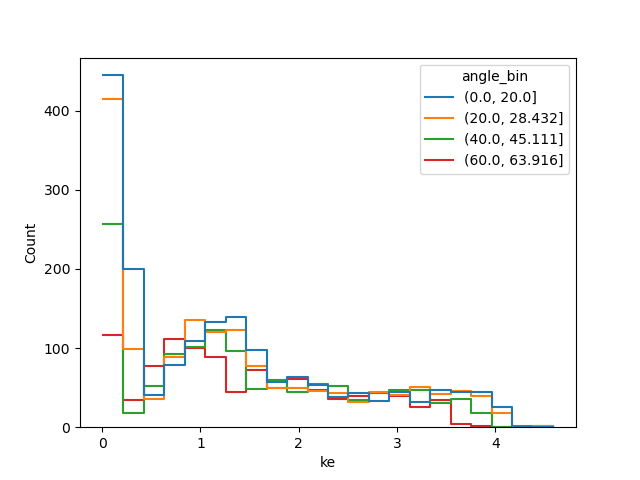
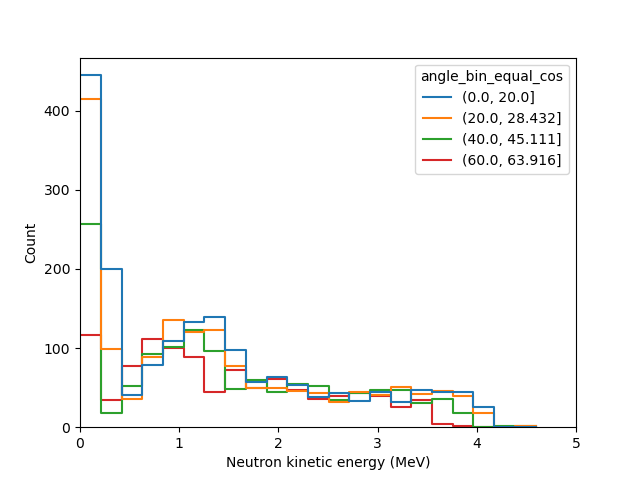
Add another plotting style.
For neutron kinetic energy binned by angle.

diff --git a/analysis-scripts/p-on-be/plot_neutron_energy_binned_by_angle.py b/analysis-scripts/p-on-be/plot_neutron_energy_binned_by_angle.py
@@ -1,7 +1,10 @@
 #!/usr/bin/env python
 
-# my own module
+# redirect output to avoid x11 issues
+import matplotlib
+matplotlib.use('Agg')
 
+# my own module
 import data_utilities
 import neutron_energy_binned_by_angle
 
@@ -22,6 +25,8 @@ if __name__ == '__main__':
     # command line arguments
     parser = argparse.ArgumentParser()
     parser.add_argument('-i', '--input_file', type=str, default=os.path.join(data_utilities.get_git_root(__file__), 'data/p_on_be/pandas/neutron_only_angle_bin.csv'))
+    parser.add_argument('--equal_angle_bin', action='store_true')
+    parser.add_argument('--separate_plots', action='store_true')
     args = parser.parse_args()
     infpn = args.input_file
     
@@ -29,18 +34,43 @@ if __name__ == '__main__':
     df_neutron = pd.read_csv(infpn)
 
     # angles at which data is binned
-    angles = neutron_energy_binned_by_angle.angles
-    half_idx = int(len(angles)/2)
-    angles1 = angles[:half_idx]
-    angles2 = angles[half_idx:]
+    if args.equal_angle_bin:
+        angles = neutron_energy_binned_by_angle.angles_equal_angle_bin
+    else:
+        angles = neutron_energy_binned_by_angle.angles
+    
+    # select the cut variable
+    cut_var = 'angle_bin_equal_cos'
+    if args.equal_angle_bin: cut_var = 'angle_bin_equal_angle'
+    # make plots with multiple angles in one figure
+    if not args.separate_plots:
+        half_idx = int(len(angles)/2)
+        angles1 = angles[:half_idx]
+        angles2 = angles[half_idx:]
 
-    for i, angle_set in enumerate([angles1, angles2]):
-        # add variable to select events of interest and select
-        df_neutron['in_angle'] = df_neutron['angle_bin'].apply(low_in_angles, args=(angle_set,))
+        for i, angle_set in enumerate([angles1, angles2]):
+            # add variable to select events of interest and select
+            df_neutron['in_angle'] = df_neutron[cut_var].apply(low_in_angles, args=(angle_set,))
+            df_angle_set = df_neutron[df_neutron.in_angle]
+
+            algle_order = sorted(list(df_angle_set[cut_var].dropna().unique()))
+            # make kinetic energy plot binned by angle
+            sns_plot = sns.histplot(x='ke', data=df_angle_set, hue=cut_var, element='step', fill=False, hue_order=algle_order)
+            sns_plot.set(xlabel='Neutron kinetic energy (MeV)')
+            sns_plot.set(xlim=(0, 5))
+            sns_plot.figure.savefig('plots/neutron_kinetic_energy_angle_bin_{}.png'.format(i))
+            sns_plot.figure.clf()
+    else: # one angle per figure
+        df_neutron['in_angle'] = df_neutron[cut_var].apply(low_in_angles, args=(angles,))
         df_angle_set = df_neutron[df_neutron.in_angle]
 
-        algle_order = sorted(list(df_angle_set.angle_bin.dropna().unique()))
-        # make kinetic energy plot binned by angle
-        sns_plot = sns.histplot(x='ke', data=df_angle_set, hue='angle_bin', element='step', fill=False, hue_order=algle_order)
-        sns_plot.figure.savefig('plots/neutron_kinetic_energy_angle_bin_{}.png'.format(i))
-        sns_plot.figure.clf()
+        angle_ranges = df_neutron[cut_var].unique()
+        for angle_range in angle_ranges:
+            df_angle_range = df_angle_set[df_angle_set[cut_var] == angle_range]
+            if df_angle_range.empty: continue
+            sns_plot = sns.histplot(x='ke', data=df_angle_range, hue=cut_var, element='step', fill=False)
+            sns_plot.set(xlabel='Neutron kinetic energy (MeV)')
+            sns_plot.set(xlim=(0, 5))
+            sns_plot.figure.savefig('plots/neutron_kinetic_energy_angle_bin_{}.png'.format(angle_range))
+            sns_plot.figure.clf()
+

diff --git a/analysis-scripts/p-on-be/neutron_energy_binned_by_angle.py b/analysis-scripts/p-on-be/neutron_energy_binned_by_angle.py
@@ -10,6 +10,7 @@ import pandas as pd
 
 # angles at which data is binned
 angles = [0., 20., 40., 60., 80., 90., 100., 120.]
+angles_equal_angle_bin = [0., 20., 40., 60., 80., 90., 100., 120., 140., 160., 180.]
 
 def get_angle_edges(angles):
     '''
@@ -31,6 +32,7 @@ if __name__ == '__main__':
     # command line arguments
     parser = argparse.ArgumentParser()
     parser.add_argument('-i', '--input_file', type=str, default=os.path.join(data_utilities.get_git_root(__file__), 'data/p_on_be/pandas/neutron_preview.csv'))
+    parser.add_argument('--equal_angle_bin', action='store_true')
     args = parser.parse_args()
     infpn = args.input_file
 
@@ -39,8 +41,19 @@ if __name__ == '__main__':
     df_neutron = df_neutron[df_neutron.particle_name == 'neutron']
     df_neutron['theta_p_degree'] = df_neutron.theta_p*180/np.pi
 
-    angle_edges = get_angle_edges(angles)
+    if args.equal_angle_bin:
+        angle_edges = [0., 20., 40., 60., 80., 90., 100., 120., 140., 160., 180.]
+    else:
+        angle_edges = get_angle_edges(angles)
     
+    # if file exists, load them into the dataframe
+    outfpn = os.path.join(data_utilities.get_git_root(__file__), 'data/p_on_be/pandas/neutron_only_angle_bin.csv')
+    if os.path.exists(outfpn):
+        df_neutron = pd.read_csv(outfpn)
+
     # add binning field
-    df_neutron['angle_bin'] = pd.cut(df_neutron.theta_p_degree, angle_edges)
-    df_neutron.to_csv(os.path.join(data_utilities.get_git_root(__file__), 'data/p_on_be/pandas/neutron_only_angle_bin.csv'))
+    if args.equal_angle_bin:
+        df_neutron['angle_bin_equal_angle'] = pd.cut(df_neutron.theta_p_degree, angle_edges)
+    else:
+        df_neutron['angle_bin_equal_cos'] = pd.cut(df_neutron.theta_p_degree, angle_edges)
+    df_neutron.to_csv(outfpn)
